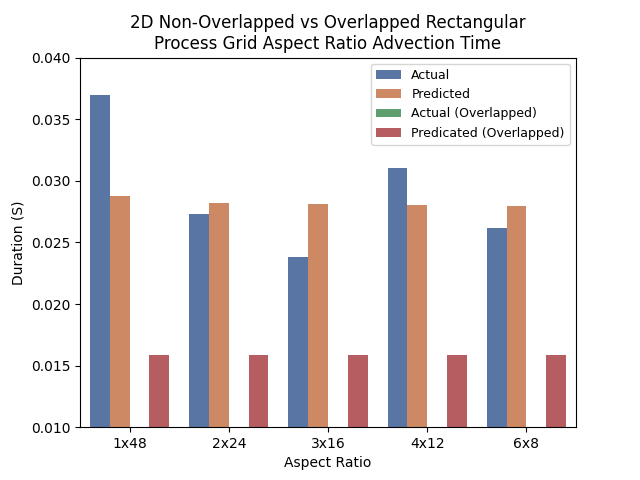
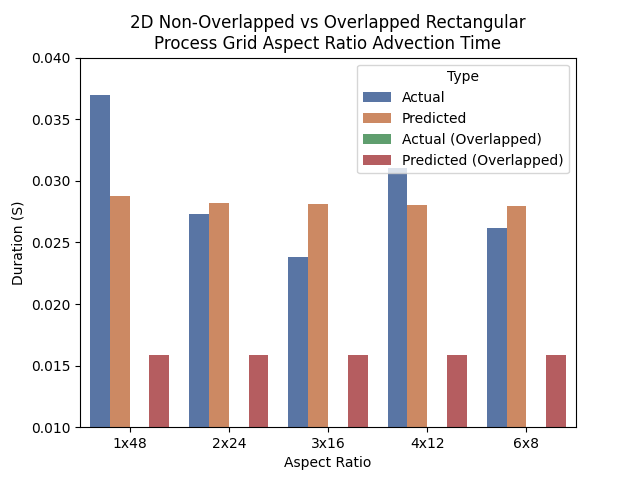
Fixed wording of predicted in graphs

Changed region(s): [[0.5625, 0.125, 0.9062, 0.375]]

diff --git a/wide.py b/wide.py
@@ -2,6 +2,7 @@ import pandas as pd
 import numpy as np
 import matplotlib.pyplot as plt
 import seaborn as sns
+import math
 
 t_s = 1.47583e-05
 t_w = 6.469449853897094e-10
@@ -10,13 +11,10 @@ t_f = 1.8141993761502122e-09
 def model(r,m,n,p,q):
     return r * (8 * (((m * t_w) / p) + ((n * t_w) / q) + (2 * t_w) + t_s) + ((m * n * t_f)/(p * q)))
 
-def overlapModel(r,m,n,p,q):
-    return r * (
-        max(
-            8 * (((m * t_w) / p) + ((n * t_w) / q) + (2 * t_w) + t_s),
-            ((m / p) - 2) * ((n / q) -2) * t_f
-        )
-        + ((2 * t_f) * ((m / p) - 2 + (n / q)))
+def wideModel(r,w,m,n,p,q):
+    return math.floor(r / w) * (
+        8 * (((m * t_w) / p) + ((n * t_w) / q) + (2 * t_w) + t_s)
+        + sum([((m / p) + (2 * w) - (2 * i)) * ((n / q) + (2 * w) - (2 * i)) * t_f for i in range(1, w + 1)])
     )
 
 processes = [
@@ -51,22 +49,22 @@ duration_2 = [
     7.15e-02,
     3.83e-02
 ]
-duration_o_2 = [0] * 6
+duration_w_2 = [0] * 6
 
-d_type = (["Actual"] * 5) + (["Predicted"] * 5) + (["Actual (Overlapped)"] * 5) + (["Predicted (Overlapped)"] * 5)
-d_type_2 = (["Actual"] * 6) + (["Predicted"] * 6) + (["Actual (Overlapped)"] * 6) + (["Predicted (Overlapped)"] * 6)
+d_type = (["Actual"] * 5) + (["Predicted"] * 5) + (["Actual (Wide)"] * 5) + (["Predicated (Wide)"] * 5)
+d_type_2 = (["Actual"] * 6) + (["Predicted"] * 6) + (["Actual (Wide)"] * 6) + (["Predicated (Wide)"] * 6)
 
 duration_pred = [model(100,2048,2048,p,q) for (p,q) in [(1,48),(2,24),(3,16),(4,12),(6,8)]]
-duration_o_pred = [overlapModel(100,2048,2048,p,q) for (p,q) in [(1,48),(2,24),(3,16),(4,12),(6,8)]]
+duration_w_pred = [wideModel(100,2048,2048,p,q) for (p,q) in [(1,48),(2,24),(3,16),(4,12),(6,8)]]
 duration_2_pred = [model(100,2048,2048,p,p) for p in [1,2,3,4,5,6]]
-duration_o_2_pred = [overlapModel(100,2048,2048,p,p) for p in [1,2,3,4,5,6]]
+duration_w_2_pred = [wideModel(100,2048,2048,p,p) for p in [1,2,3,4,5,6]]
 
 def pch(initial, final):
     return 100.0 * ((final - initial) / abs(initial))
 
-dp_pch_a = [pch(duration_pred[i], duration_o_pred[i]) for i in range(5)]
+dp_pch_a = [pch(duration_pred[i], duration_w_pred[i]) for i in range(5)]
 dp_pch = sum(dp_pch_a) / len(dp_pch_a)
-dp_pch_2_a = [pch(duration_2_pred[i], duration_o_2_pred[i]) for i in range(5)]
+dp_pch_2_a = [pch(duration_2_pred[i], duration_w_2_pred[i]) for i in range(5)]
 dp_pch_2 = sum(dp_pch_2_a) / len(dp_pch_2_a)
 print("PCH:", dp_pch, "PCH 2:", dp_pch_2, "AVG:", (dp_pch + dp_pch_2) / 2.0)
 
@@ -80,28 +78,28 @@ print("PCH:", dp_pch, "PCH 2:", dp_pch_2, "AVG:", (dp_pch + dp_pch_2) / 2.0)
 
 # t_w *= 10.0
 # duration_pred = [model(100,2048,2048,p,q) for (p,q) in [(1,48),(2,24),(3,16),(4,12),(6,8)]]
-# duration_o_pred = [overlapModel(100,2048,2048,p,q) for (p,q) in [(1,48),(2,24),(3,16),(4,12),(6,8)]]
+# duration_w_pred = [wideModel(100,2048,2048,p,q) for (p,q) in [(1,48),(2,24),(3,16),(4,12),(6,8)]]
 # duration_2_pred = [model(100,2048,2048,p,p) for p in [1,2,3,4,5,6]]
-# duration_o_2_pred = [overlapModel(100,2048,2048,p,p) for p in [1,2,3,4,5,6]]
+# duration_w_2_pred = [wideModel(100,2048,2048,p,p) for p in [1,2,3,4,5,6]]
 
 # duration_pred_10 = [model(100,3000,3000,p,q) for (p,q) in [(1,192),(2,96),(3,64),(4,48),(6,32),(8,24),(12,16)]]
 # duration_2_pred_10 = [model(100,3000,3000,p,p) for p in [1,2,4,8,13]]
 
 print("Rectangular:", list(map(lambda a: "{:e}".format(a), duration_pred)))
 print("Square:", list(map(lambda a: "{:e}".format(a), duration_2_pred)))
-print("Rectangular Overlap:", list(map(lambda a: "{:e}".format(a), duration_o_pred)))
-print("Square Overlap:", list(map(lambda a: "{:e}".format(a), duration_o_2_pred)))
+print("Rectangular Wide:", list(map(lambda a: "{:e}".format(a), duration_w_pred)))
+print("Square Wide:", list(map(lambda a: "{:e}".format(a), duration_w_2_pred)))
 # print("Rectangular x10:", list(map(lambda a: "{:e}".format(a), duration_pred_10)))
 # print("Square x10:", list(map(lambda a: "{:e}".format(a), duration_2_pred_10)))
 
 data = pd.DataFrame({
     "Aspect Ratio": processes + processes + processes + processes,
-    "Duration (S)": duration + duration_pred + duration_o + duration_o_pred,
+    "Duration (S)": duration + duration_pred + duration_o + duration_w_pred,
     "Type": d_type
 })
 data2 = pd.DataFrame({
     "Aspect Ratio": processes_2 + processes_2 + processes_2 + processes_2,
-    "Duration (S)": duration_2 + duration_2_pred + duration_o_2 + duration_o_2_pred,
+    "Duration (S)": duration_2 + duration_2_pred + duration_w_2 + duration_w_2_pred,
     "Type": d_type_2
 })
 
@@ -109,15 +107,15 @@ data2 = pd.DataFrame({
 #data2_10 = pd.DataFrame({"Aspect Ratio": processes_2 + processes_2, "Duration (S)": duration_2_pred + duration_2_pred_10, "t_w multiplier": d_type_2})
 
 # f, axes = plt.subplots(1, 2, sharey=True)
-sns.barplot(y = "Duration (S)", x = "Aspect Ratio", data = data, hue = "Type", palette=sns.color_palette("deep"))
-plt.ylim(0.010, 0.04)
-#plt.legend(prop={"size": 9})
-#sns.barplot(y = "Duration (S)", x = "Aspect Ratio", data = data2, hue = "Type", palette=sns.color_palette("deep"))
+#sns.barplot(y = "Duration (S)", x = "Aspect Ratio", data = data, hue = "Type", palette=sns.color_palette("deep"))
+#plt.ylim(0.010, 0.04)
+plt.legend(prop={"size": 9})
+sns.barplot(y = "Duration (S)", x = "Aspect Ratio", data = data2, hue = "Type", palette=sns.color_palette("deep"))
 
 #sns.barplot(y = "Duration (S)", x = "Aspect Ratio", data = data_10, hue = "t_w multiplier")
 # sns.barplot(y = "Duration (S)", x = "Aspect Ratio", data = data2_10, hue = "t_w multiplier")
 
 # plt.ticklabel_format(style="scientific", axis="y", scilimits=(0,0))
-plt.title("2D Non-Overlapped vs Overlapped Rectangular\nProcess Grid Aspect Ratio Advection Time")
+plt.title("2D Non-Wide vs Wide Square\nProcess Grid Aspect Ratio Advection Time")
 #plt.title("Predicted Rectangular Process Grid Aspect Ratio Advection Time")
 plt.show()
